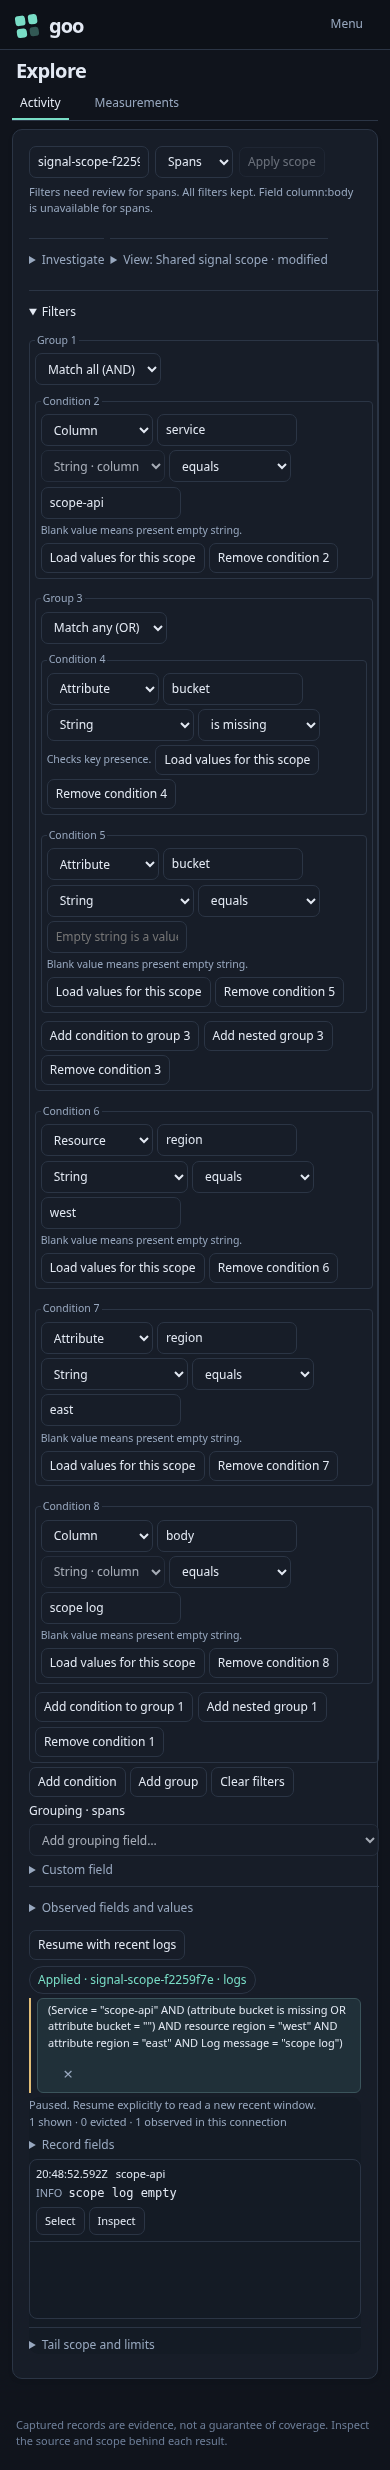
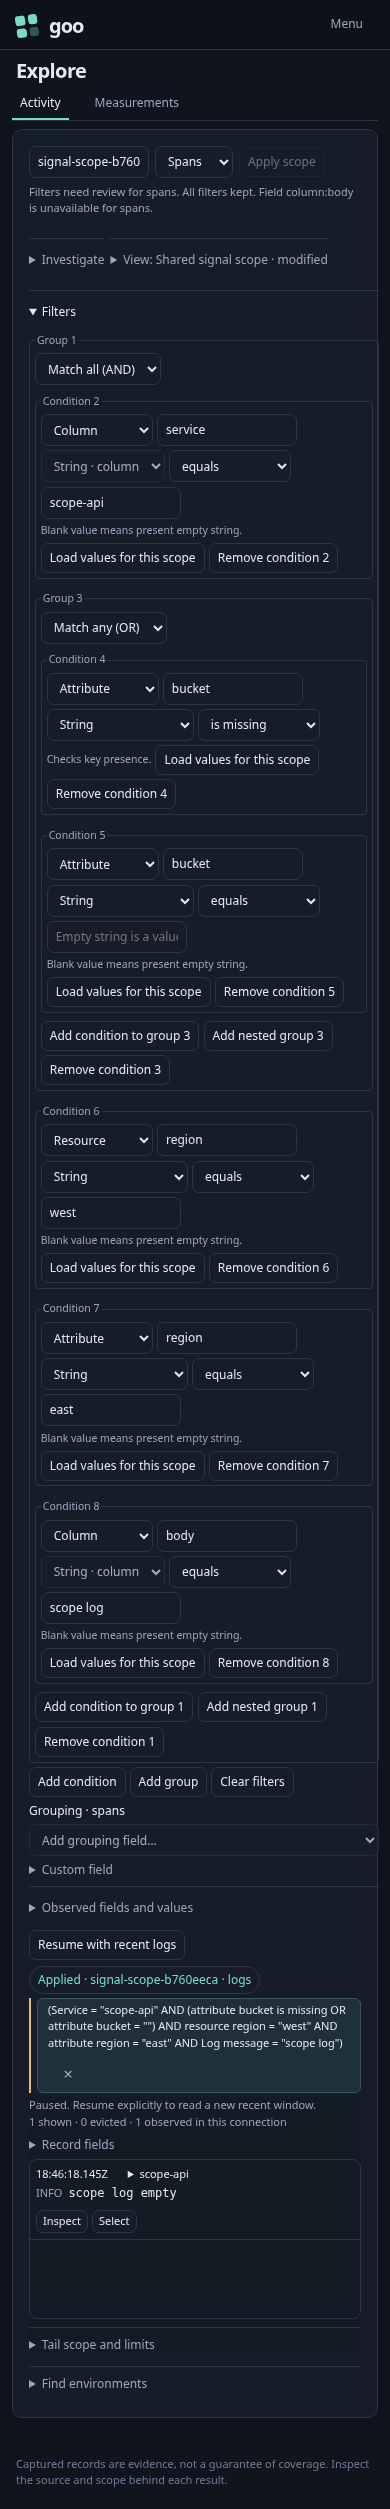
Retain record environment scope through Activity and fixed editor ownership

diff --git a/journeys/253-record-scope-ownership.spec.js b/journeys/253-record-scope-ownership.spec.js
@@ -1,0 +1,29 @@
+const {test,expect}=require('@playwright/test'),fs=require('node:fs/promises'),path=require('node:path'),os=require('node:os'),{execFile}=require('node:child_process'),{promisify}=require('node:util'),{startRuntime}=require('./191-generic-runtime');
+test('253 fixed owner preserves checked environment scope across edits without activating selector entry',async({page})=>{
+ test.setTimeout(180000);const owned=await fs.mkdtemp(path.join(os.tmpdir(),'goo-scope-253-')),dir=path.resolve('artifacts/record-scope-253');let runtime;
+ try{
+  const binary=path.join(owned,'goo');await promisify(execFile)('go',['build','-mod=readonly','-o',binary,'./cmd/goo'],{timeout:120000});runtime=await startRuntime(binary,dir);
+  const requests=[],errors=[];page.on('pageerror',e=>errors.push(e.message));page.on('request',r=>{const p=new URL(r.url()).pathname;if(r.method()==='POST'&&p==='/api/explore')requests.push(r.postDataJSON())});
+  await page.goto(runtime.base+'/#questions');await expect(page.locator('#exploreRun')).toBeVisible();
+  // Mount the production fixed owner through its internal API. No new public
+  // selector entry is asserted; this is a bounded owner integration test.
+  await page.evaluate(async()=>{const {mount}=await import('/exploration.mjs');const host=document.createElement('section');host.id='scope-owner-253';document.body.append(host);window.scope253=mount(host,{prefix:'s253',managed:true})});
+  const host=page.locator('#scope-owner-253'),selector=scope=>({version:'goo/environment-selector/v1',policy:'effective',scope});
+  for(const scope of [{mode:'unreported'},{mode:'empty'},{mode:'named',value:'local'}]){
+   const environmentSelector=selector(scope),toMs=Date.now(),q={signal:'logs',environmentSelector,fromMs:toMs-60000,toMs,limit:100,offset:0};const before=requests.length;
+   await page.evaluate(q=>window.scope253.openQuestion(q,[],{stage:true}),q);expect(requests).toHaveLength(before);
+   await expect(host.locator('#s253exploreQuestionState')).toContainText(scope.mode==='unreported'?'Unreported environment':scope.mode==='empty'?'Empty environment label':'current/legacy precedence');
+   await host.locator('#s253discoveryMessage').fill('owned-no-match-253');expect(requests).toHaveLength(before);
+   let response=page.waitForResponse(r=>r.url().endsWith('/api/explore')&&r.request().method()==='POST');await host.locator('#s253exploreRun').click();expect((await response).status()).toBe(200);await expect(host).toHaveAttribute('data-question-phase','applied');expect(requests.at(-1).environmentSelector).toEqual(environmentSelector);expect(requests.at(-1).fromMs).toBe(q.fromMs);expect(requests.at(-1).toMs).toBe(q.toMs);
+   await expect(host.locator('#s253exploreCreatePackage')).toBeDisabled();await expect(host.locator('#s253deploymentLoad')).toBeDisabled();
+   // Changing signal/fresh bounds must not turn an unreported scope into "".
+   await host.locator('#s253exploreSignal').selectOption('spans');await host.locator('#s253exploreFreshWindow').click();response=page.waitForResponse(r=>r.url().endsWith('/api/explore')&&r.request().method()==='POST');await host.locator('#s253exploreRun').click();expect((await response).status()).toBe(200);await expect(host).toHaveAttribute('data-question-phase','applied');expect(requests.at(-1).environmentSelector).toEqual(environmentSelector);expect(requests.at(-1).signal).toBe('spans');
+   const phase=await host.getAttribute('data-question-phase');expect(await page.evaluate(q=>{try{window.scope253.openQuestion({...q,environment:'ambiguous'},[],{stage:true});return false}catch{return true}},q)).toBe(true);await expect(host).toHaveAttribute('data-question-phase',phase);
+  }
+  // A pinned baseline must not override an explicit environment edit.
+  const toMs=Date.now();await page.evaluate(q=>window.scope253.openQuestion(q,[],{stage:true}),{signal:'spans',environmentSelector:selector({mode:'unreported'}),fromMs:toMs-60000,toMs,limit:100,offset:0,groupBy:[{kind:'column',key:'service'}]});
+  let pinnedRead=page.waitForResponse(r=>r.url().endsWith('/api/explore')&&r.request().method()==='POST');await host.locator('#s253exploreRun').click();expect((await pinnedRead).status()).toBe(200);await expect(host).toHaveAttribute('data-question-phase','applied');await host.locator('#s253baselinePin').click();await expect(host.locator('#s253baselineStatus')).toContainText('Baseline:');
+  await host.locator('#s253exploreEnvironment').fill('local');const response=page.waitForResponse(r=>r.url().endsWith('/api/explore')&&r.request().method()==='POST');await host.locator('#s253exploreRun').click();expect((await response).status()).toBe(200);await expect(host).toHaveAttribute('data-question-phase','applied');expect(requests.at(-1).environment).toBe('local');expect(requests.at(-1).environmentSelector).toBeUndefined();
+  expect(errors).toEqual([]);await page.evaluate(()=>window.scope253.dispose());
+ }finally{await runtime?.stop();await fs.rm(owned,{recursive:true,force:true})}
+});

diff --git a/tests/record-scope-draft.test.js b/tests/record-scope-draft.test.js
@@ -1,0 +1,18 @@
+const {test}=require('node:test'),assert=require('node:assert/strict');
+const {RecordScopeDraft}=require('../ui/record-scope-draft.mjs'),E=require('../ui/record-environment.mjs'),bank=require('../testdata/protocol/environment-selectors.json');
+test('retained record scope survives independent filter, signal and fixed/fresh bound changes',()=>{
+ for(const fixture of bank.cases){const origin={signal:'logs',environmentSelector:structuredClone(fixture.selector),fromMs:1000,toMs:61000},before=structuredClone(origin),draft=new RecordScopeDraft();draft.restore(origin);
+  for(const signal of ['logs','spans'])for(const bounds of [{fromMs:1000,toMs:61000},{fromMs:61000,toMs:121000}])for(const where of [undefined,{field:{kind:'column',key:'service'},op:'eq',value:'worker'}]){
+   const next={signal,...draft.snapshot(),...bounds,where};assert.ok(draft.matches(next));assert.ok(E.sameQuestionEnvironment(next,origin));next.environmentSelector.scope.mode='changed';assert.deepEqual(origin,before);assert.ok(draft.matches(origin));
+  }
+  const fields=draft.snapshot();fields.environmentSelector.scope.mode='changed';assert.ok(draft.matches(origin));
+  for(const bad of [{environment:''},{environment:'prod',environmentSelector:E.effective({mode:'empty'})}]){assert.throws(()=>draft.restore(bad));assert.ok(draft.matches(origin));}
+  draft.setName('prod');assert.deepEqual(draft.snapshot(),{environment:'prod'});assert.equal(draft.matches(origin),false);assert.ok(draft.matches({environment:'prod'}));
+  draft.setName('');assert.equal(draft.matches({environment:''}),false);assert.throws(()=>E.questionFields(draft.snapshot()));
+ }
+});
+test('scope ownership distinguishes representation and policy changes without conflating empty or missing names',()=>{
+ const draft=new RecordScopeDraft('prod');assert.ok(draft.matches({environment:'prod',environmentSelector:null}));assert.equal(draft.matches({environmentSelector:E.current('prod')}),false);
+ const scopes=[E.current('prod'),E.effective({mode:'named',value:'prod'}),E.effective({mode:'empty'}),E.effective({mode:'unreported'})];
+ for(let i=0;i<scopes.length;i++){draft.restore({environmentSelector:scopes[i]});for(let j=0;j<scopes.length;j++)assert.equal(draft.matches({environment:'',environmentSelector:scopes[j]}),i===j)}
+});

diff --git a/docs/RECORD_SELECTOR_API.md b/docs/RECORD_SELECTOR_API.md
@@ -165,3 +165,39 @@ refuse selector captures before assigning a baseline, even when an explicit
 current-only capture is semantically compatible with legacy Activity. This avoids
 an incomplete workflow into server-refused view persistence. Existing Saved,
 share-link, native/service/package and XTDB gates stay in place.
+
+## Record scope ownership — 253
+
+The application-owned `RecordScopeDraft` retains detached environment fields
+independently of displayed result/question objects. Activity uses it for applied
+versus draft checks, signal changes and resume eligibility. Returning to paused
+Activity retains its owner rather than rebuilding scope from the name input.
+Saved Activity view writing/browsing stays disabled for selector-bearing scopes.
+
+The fixed editor uses the same owner through pinned-baseline, fixed-bound and
+fresh-lookback input construction. Filter/measure/signal/window edits preserve
+scope. An explicit environment input edit replaces it with a legacy name and
+clears the pinned baseline so baseline precedence cannot undo that edit.
+Incoming questions validate before mutating the visit. Scope text labels policy
+instead of using an empty name or a sentinel. Named-only deployment, package,
+trace-search and recent-population paths are guarded. Unsupported shared-question
+links remain gated; numeric selector staging uses the internal owner directly.
+
+```mermaid
+flowchart LR
+  Incoming[Checked incoming environment fields] --> Draft[Detached scope owner]
+  Name[Explicit environment text edit] --> Replace[Replace with legacy name]
+  Replace --> Draft
+  Replace --> Clear[Clear pinned baseline]
+  Draft --> Activity[Draft / resume checks]
+  Draft --> Fixed[Fixed / fresh / pinned input builders]
+  Edits[Filter / measure / signal / window edits] --> Fixed
+  Fixed --> Stage[Stage with no source read]
+  Stage --> Run[Explicit Run]
+```
+
+[Journey 253](../journeys/253-record-scope-ownership-storyboard.md) mounts the
+production fixed owner through its internal API and checks real source requests.
+This does not enable selector entry or Saved mounting, and does not establish a
+complete live selector workflow. Comparison/explanation/log-pattern/population
+owners and Saved mounting still require coordinated adoption before activation.

diff --git a/VALIDATION.md b/VALIDATION.md
@@ -1,5 +1,35 @@
 # Validation record
 
+## Retained Activity/fixed record scope — 253 (2026-10-29 UTC)
+
+An application-owned detached scope now survives Activity draft/resume checks
+and fixed-editor filter/measure/signal/window edits independently of the
+current result. Explicit environment editing replaces the selector and clears
+pinned baseline precedence. All fixed-input branches copy full environment
+fields. Incoming fixed questions validate before visit mutation; named-only
+package, deployment, trace-search, sharing and recent-population boundaries
+remain guarded. See [contract/diagram](docs/RECORD_SELECTOR_API.md#record-scope-ownership--253)
+and [executable storyboard](journeys/253-record-scope-ownership-storyboard.md).
+
+616 frontend checks pass, no skips; focused final owner/Activity checks pass.
+Embedded-UI and source-free configured-UI Go tests also pass.
+Shared-bank tests cover detached ownership, invalid-restore isolation, policy and
+representation changes and replacement with a legacy name. New Playwright journey
+253 mounts the production fixed owner via its internal API against real ClickHouse:
+missing/empty/named staging sends no exploration request, edits and explicit
+Run preserve exact scope, signal/fresh-window changes preserve selector, invalid
+open preserves the visit, and pinned-baseline environment replacement is honored.
+Final run passes in14.1s (16.6s total). Ordinary Activity journey239 also passes
+in50.7s (55.1s total), retaining complete signal predicates/drafts and rejecting
+late old-signal publication; its existing documentation frame is refreshed.
+These are not claims of newly enabled selector entry or Saved mounting. No
+optional Bombadil or native-model campaign is claimed for this cut. Reviewer
+found no blocker and identified the pinned-baseline edge now covered above.
+Architecture review also found no blocker; live selector staging/return remains
+a future activation acceptance check. No lab deployment is claimed for this cut.
+Temporary runtime stores are isolated; no lab evidence is published or migrated.
+
+
 ## Activity internal environment protocol — 252 (2026-10-29 UTC)
 
 Internal record validation accepts checked selectors without enabling shared links

diff --git a/journeys/253-record-scope-ownership-storyboard.md b/journeys/253-record-scope-ownership-storyboard.md
@@ -1,0 +1,23 @@
+# 253 — retained record scope ownership
+
+This is an executable internal-owner integration, not a new selector-entry UI.
+Find environments and selector-capture Saved mounting remain gated.
+
+1. Mount the production fixed-question owner in an isolated Go runtime using the
+   existing ClickHouse source. Stage missing, empty and effective named scope.
+   Staging sends no exploration request and shows the explicit policy/scope.
+2. Edit a message filter. Run explicitly: the request retains the original exact
+   window and selector. Named-only package/deployment controls remain disabled.
+3. Change signal and request a fresh window. Run explicitly: the selected scope
+   remains unchanged. Reject ambiguous incoming scope before changing the visit.
+4. Pin a captured breakdown baseline. Explicitly edit the environment name. The
+   baseline clears, and the next request uses the new legacy named scope without
+   the prior selector. Pinning can calculate a supplied-cohort comparison; that
+   is distinct from a telemetry read.
+5. Dispose the owner and remove its temporary runtime/store. No lab capture or
+   existing stored data is changed.
+
+[journey](253-record-scope-ownership.spec.js) and
+[scope contract](../docs/RECORD_SELECTOR_API.md#record-scope-ownership--253).
+The ordinary Activity signal/draft regression is separately exercised by journey
+239; it does not establish live selector-entry activation.

diff --git a/docs/ENVIRONMENT_SCOPE_PROPAGATION.md b/docs/ENVIRONMENT_SCOPE_PROPAGATION.md
@@ -89,3 +89,18 @@ The [record API cut](RECORD_SELECTOR_API.md) supersedes the pre-propagation tabl
 Query/Tail, record context/followups, compatibility, capabilities, filesystem
 captures and mixed catalog metadata preserve the selector. Unsupported families,
 saved intent and XTDB refuse it. Browser handoffs remain gated; they are next.
+
+## Owner update — 253
+
+The audit above is historical. Browser context constructors were migrated in251;
+Activity internal validation/query builders and response defaults in252; and
+retained Activity/fixed environment ownership in253. Fixed editor edits now retain
+selector fields independently of cleared result state, and explicit name editing
+clears both the old selector and pinned-baseline precedence. Activity resume/draft
+checks use full retained environment identity. See the current
+[ownership contract](RECORD_SELECTOR_API.md#record-scope-ownership--253).
+
+These prerequisites do not enable environment-preview handoffs or Saved mounting.
+Downstream comparison/population, explanation/log-pattern owners and Saved flows
+remain outstanding. Named-only deployment/package/trace-search/recent-population
+controls refuse selector work rather than forwarding an empty legacy name.

diff --git a/docs/KNOWN_ISSUES.md b/docs/KNOWN_ISSUES.md
@@ -1,9 +1,9 @@
 # Known issues and gaps
 
 250 enables checked environment selectors in the record APIs, tails, context,
-comparisons, capabilities and filesystem captures. 251–252 supply checked browser context/Activity constructors and internal
-validation/response matching, but Activity ownership/fixed/Saved
-adoption is still open: Find environments stays a local preview, and selector
+comparisons, capabilities and filesystem captures. 251–253 supply checked browser context/Activity constructors, internal
+validation/response matching and retained Activity/fixed scope ownership.
+Downstream comparison/population and Saved adoption remain open: Find environments stays a local preview, and selector
 captures show an explicit browser-pending notice plus exact JSON read link.
 Native/service/inventory/parent-edge, reusable/saved intent and XTDB paths remain
 unsupported and refuse selectors server-side. Old named questions retain their

diff --git a/docs/IMPLEMENTATION_PLAN.md b/docs/IMPLEMENTATION_PLAN.md
@@ -16,7 +16,9 @@
 > 251 adds checked browser environment copying/equality and context/tail constructors,
 > behind existing gates. 252 separates internal record validation from shared links,
 > and migrates Activity query builders, session matching and tail reset defaults.
-> Next: coordinate browser Activity scope ownership and fixed/Saved adoption before
+> 253 retains scope independently in Activity/fixed owners, preserves editor changes,
+> and clears pinned baseline on explicit environment replacement.
+> Next: complete downstream comparison/population and Saved adoption before
 > enabling selector handoffs; service/native/package/retention work remains separate.
 > Earlier queues preserve delivery history; their Next labels are superseded.
 

diff --git a/docs/BACKLOG_2026_10_29.md b/docs/BACKLOG_2026_10_29.md
@@ -199,3 +199,8 @@ construction, internal selector-aware validation separate from shared links,
 policy-aware baseline compatibility, session response matching and tail reset
 omission defaults. Entry/draft/resume/return ownership and fixed/Saved activation
 remain the next coordinated cut; full A0 is not delivered.
+
+253 retains Activity/fixed environment ownership across edits and explicit
+replacement, with real fixed-owner and ordinary live Activity regressions.
+Next: downstream comparison/population owners and Saved mounting, then entry
+activation after the complete journey passes. Full A0 remains open.

diff --git a/docs/ROADMAP_2026_10_29.md b/docs/ROADMAP_2026_10_29.md
@@ -124,3 +124,8 @@ construction, internal selector-aware validation separate from shared links,
 policy-aware baseline compatibility, session response matching and tail reset
 omission defaults. Entry/draft/resume/return ownership and fixed/Saved activation
 remain the next coordinated cut; full A0 is not delivered.
+
+253 retains Activity/fixed environment ownership across edits and explicit
+replacement, with real fixed-owner and ordinary live Activity regressions.
+Next: downstream comparison/population owners and Saved mounting, then entry
+activation after the complete journey passes. Full A0 remains open.
